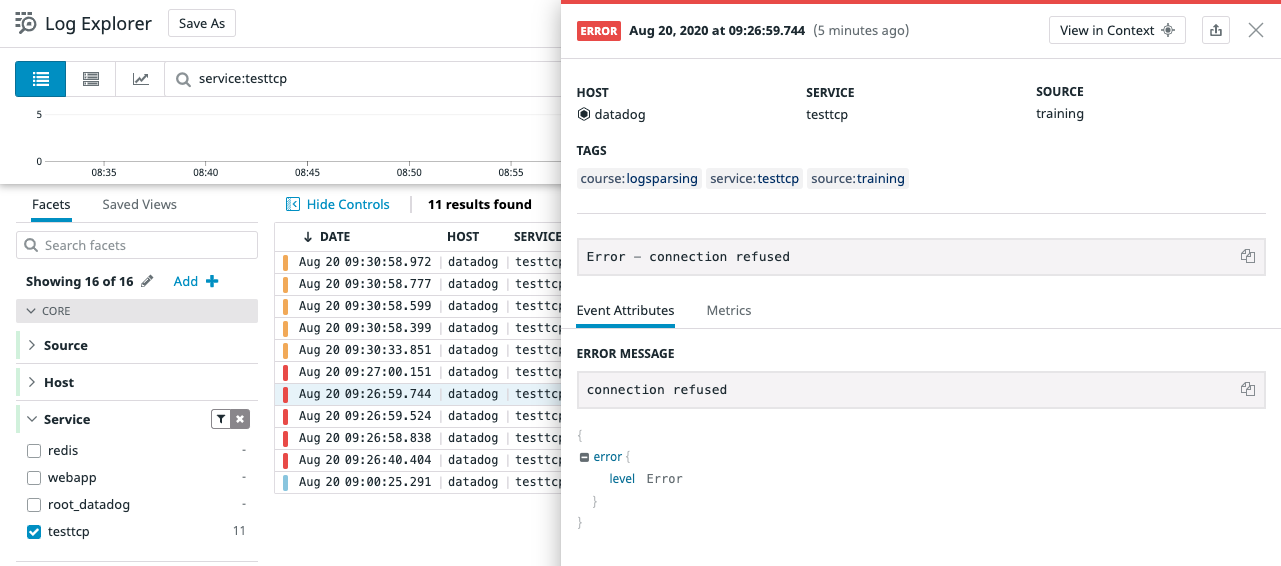
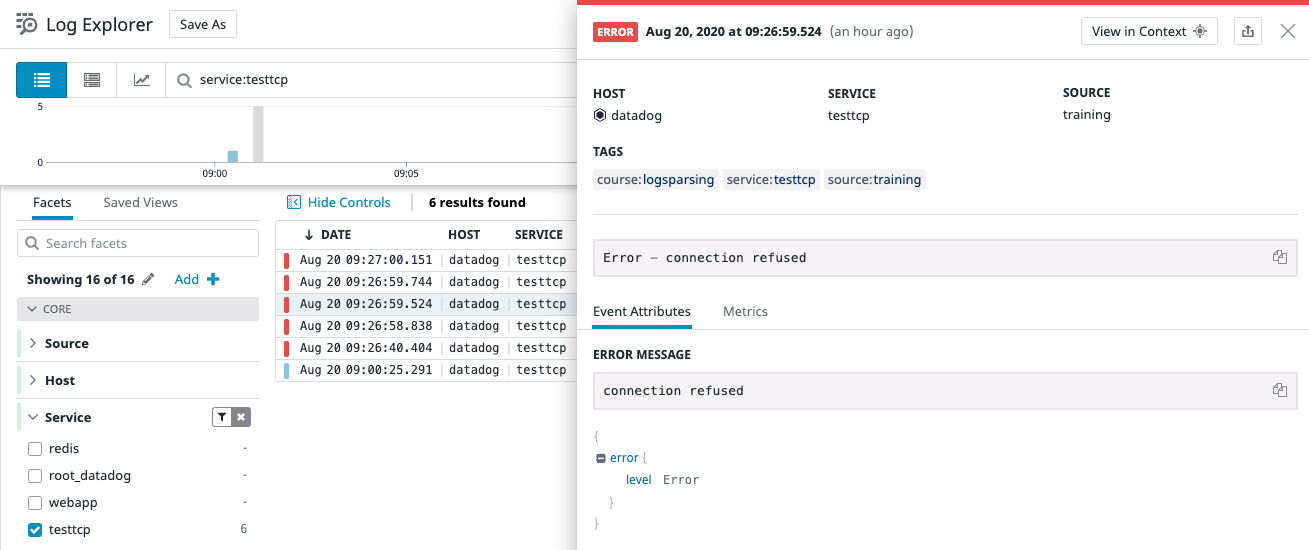
updated errorstatus image, added DD UI links, clarified instructions

diff --git a/logsparse/step1.md b/logsparse/step1.md
@@ -17,7 +17,7 @@
 
    `Error - connection refused`{{execute T2}}
 
-5. Open the Log Explorer and look out for the new log line to appear.
+5. Open the <a href="https://app.datadoghq.com/logs" target="_datadog">**Log Explorer**</a> and search for `service:testtcp` to filter the list for the new log line.
    
    ![Defaults to INFO](/sdheda/scenarios/logsparse/assets/defaultsinfonew.png)
 
@@ -25,18 +25,20 @@
 
    *What is the status of your log message in the platform right now? You can see status at the top of the log message once you click on it. It shows as **Info** whereas you would have expected to have this as an **Error**. To change this we will need to have specific processing rules to extract the severity and the error message.*
 
-6. Navigate to Configurations > Pipelines and create a New Pipeline. Type `service:testtcp` for **Filter** and set the **Name** to `Getting Started with Pipelines`. Click **Save**.
+6. Navigate to <a href="https://app.datadoghq.com/logs/pipelines" target="_datadog">**Configurations > Pipelines**</a> and create a **New Pipeline**. 
+
+   Type `service:testtcp` for **Filter** and set the **Name** to `Getting Started with Pipelines`. Click **Save**.
 
    ![New Pipeline](/sdheda/scenarios/logsparse/assets/newpipelinenew.png)
 
 7. Find the pipeline you created in the Pipelines list. Create a new processor in that pipeline. 
 
-   For Select the processor type, choose `Grok Parser`. 
+   For **Select the processor type**, choose `Grok Parser` 
    
-   For Logs samples, enter:
+   For **Logs samples**, enter
    `Error - connection refused`
    
-   For Define parsing rule, enter;
+   For **Define parsing rule**, enter
    `myrule %{word:error.level} - %{data:error.message}`
    
    *The extraction will appear below the rule.*
@@ -45,13 +47,19 @@
    
    ![New Grok Parser](/sdheda/scenarios/logsparse/assets/newgrokparser.png)
 
-8. Next we need a Status remapper to remap the value of the "level" attribute to the global log severity. Set the **Status attribute** textbox to `error.level`. Click **Save**.
+8. Next we need a Status remapper to remap the value of the "level" attribute to the global log severity. Create a new processor in the pipeline. 
+
+   For **Select the processor type**, choose `Status Remapper` 
+
+   For **Set status attribute(s)**, enter `error.level`
+
+   Enter a name and click **Save**.
    
    ![New Status Remapper](/sdheda/scenarios/logsparse/assets/newstatusremapper.png)
 
 9. Send the `Error - connection refused`{{execute T2}} line again. 
    
-   Note: If you see `Connection closed by foreign host.` in **Terminal 2**, you will need to telnet to port again using `telnet localhost 10520`{{execute T2}} before you enter the Error message.
+   Note: If you see `Connection closed by foreign host.` in **Terminal 2**, you will need to telnet to the port again using `telnet localhost 10520`{{execute T2}} before you enter the Error message.
 
 10. Navigate to the Log Explorer and search for **service:testtcp**.
 
